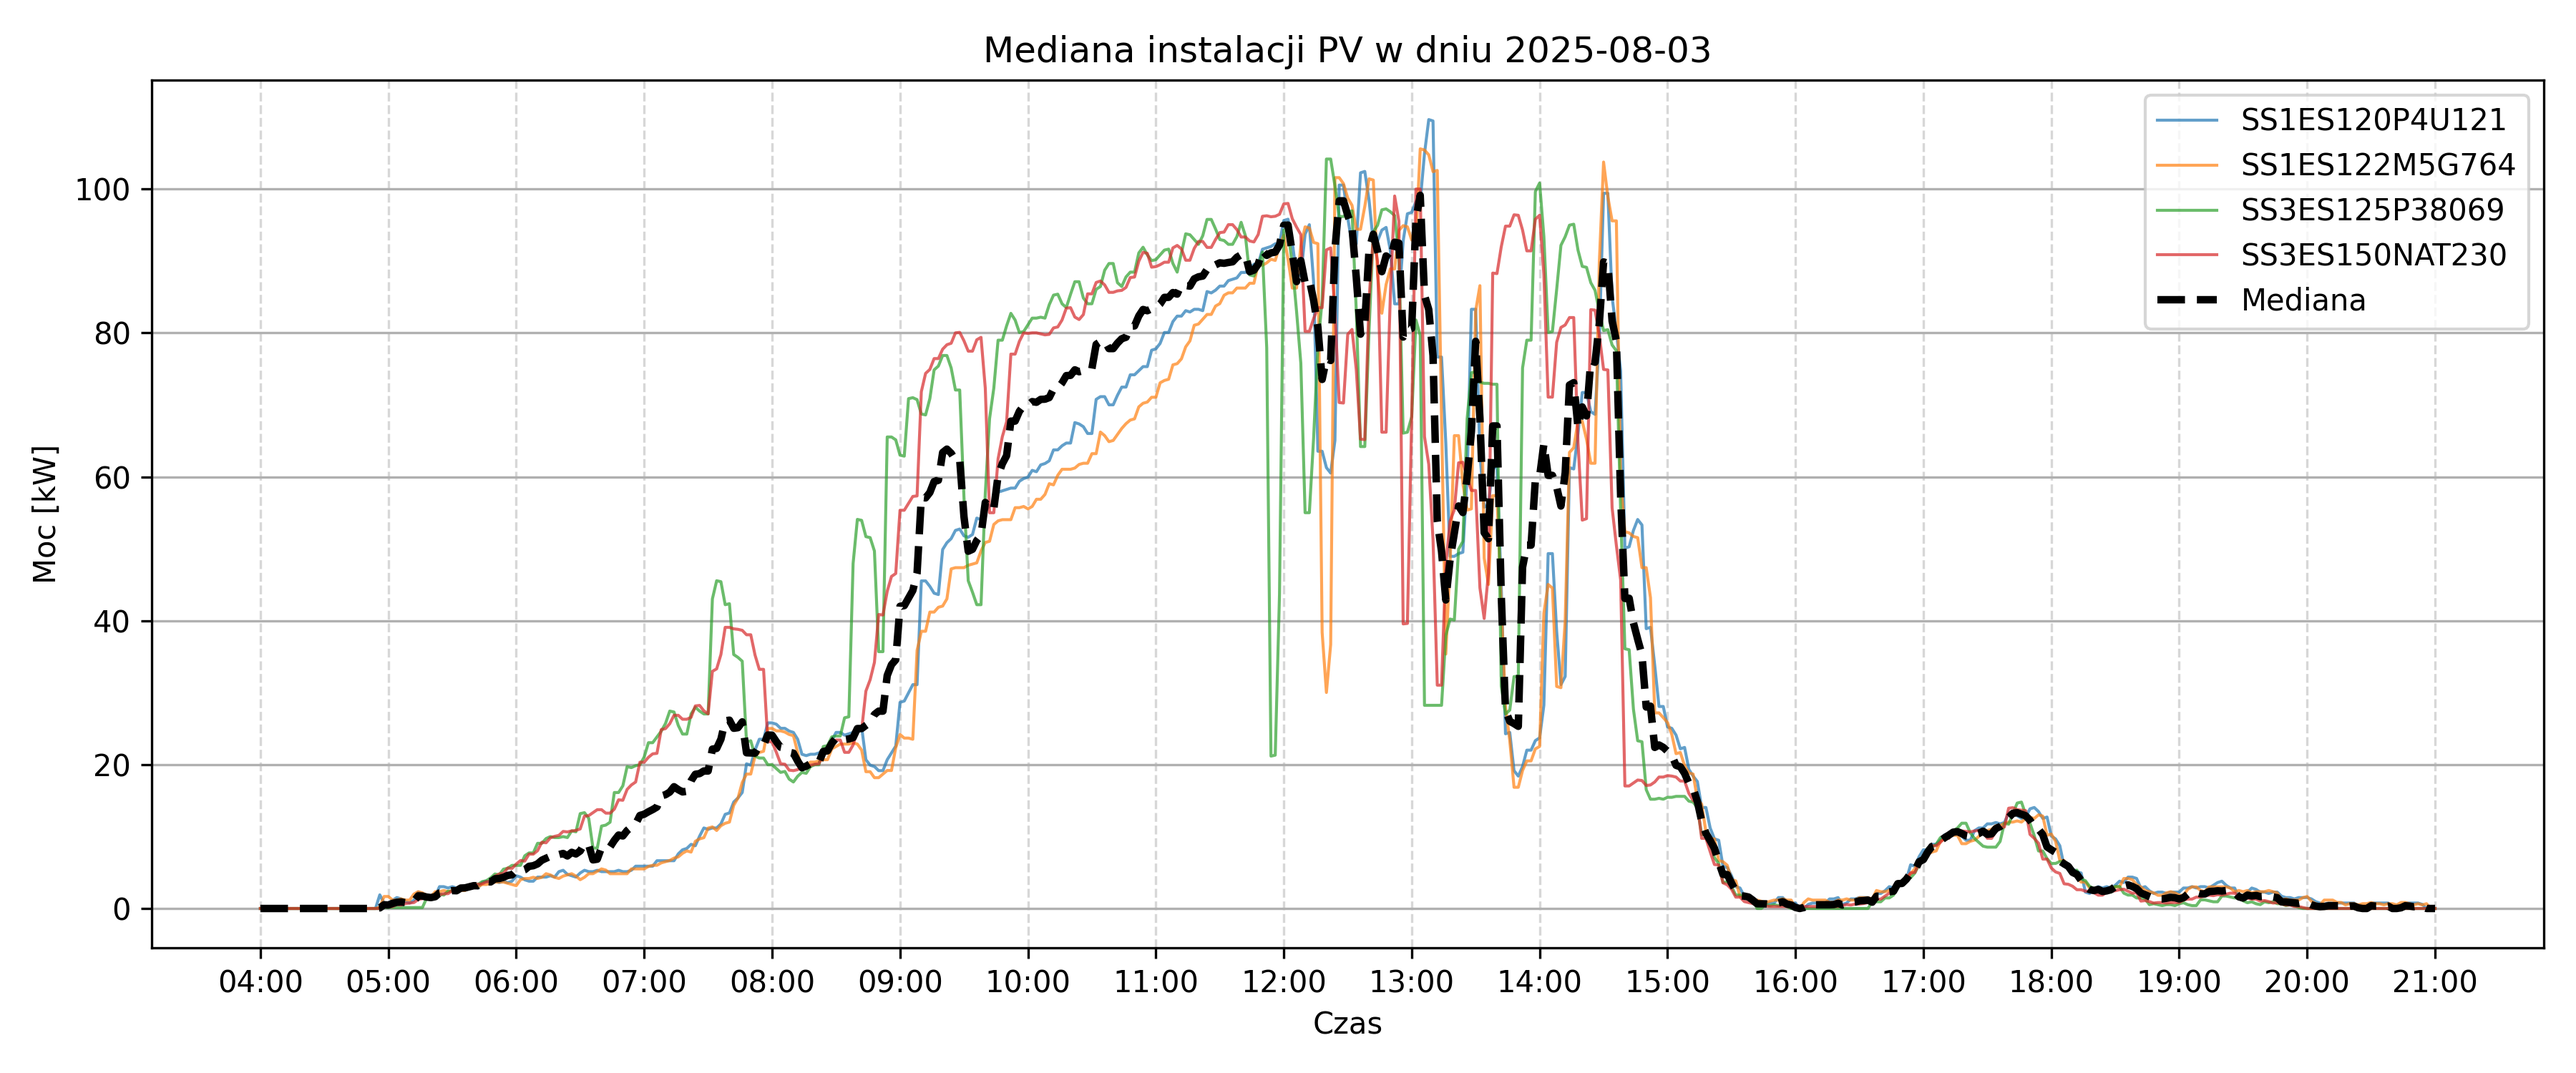
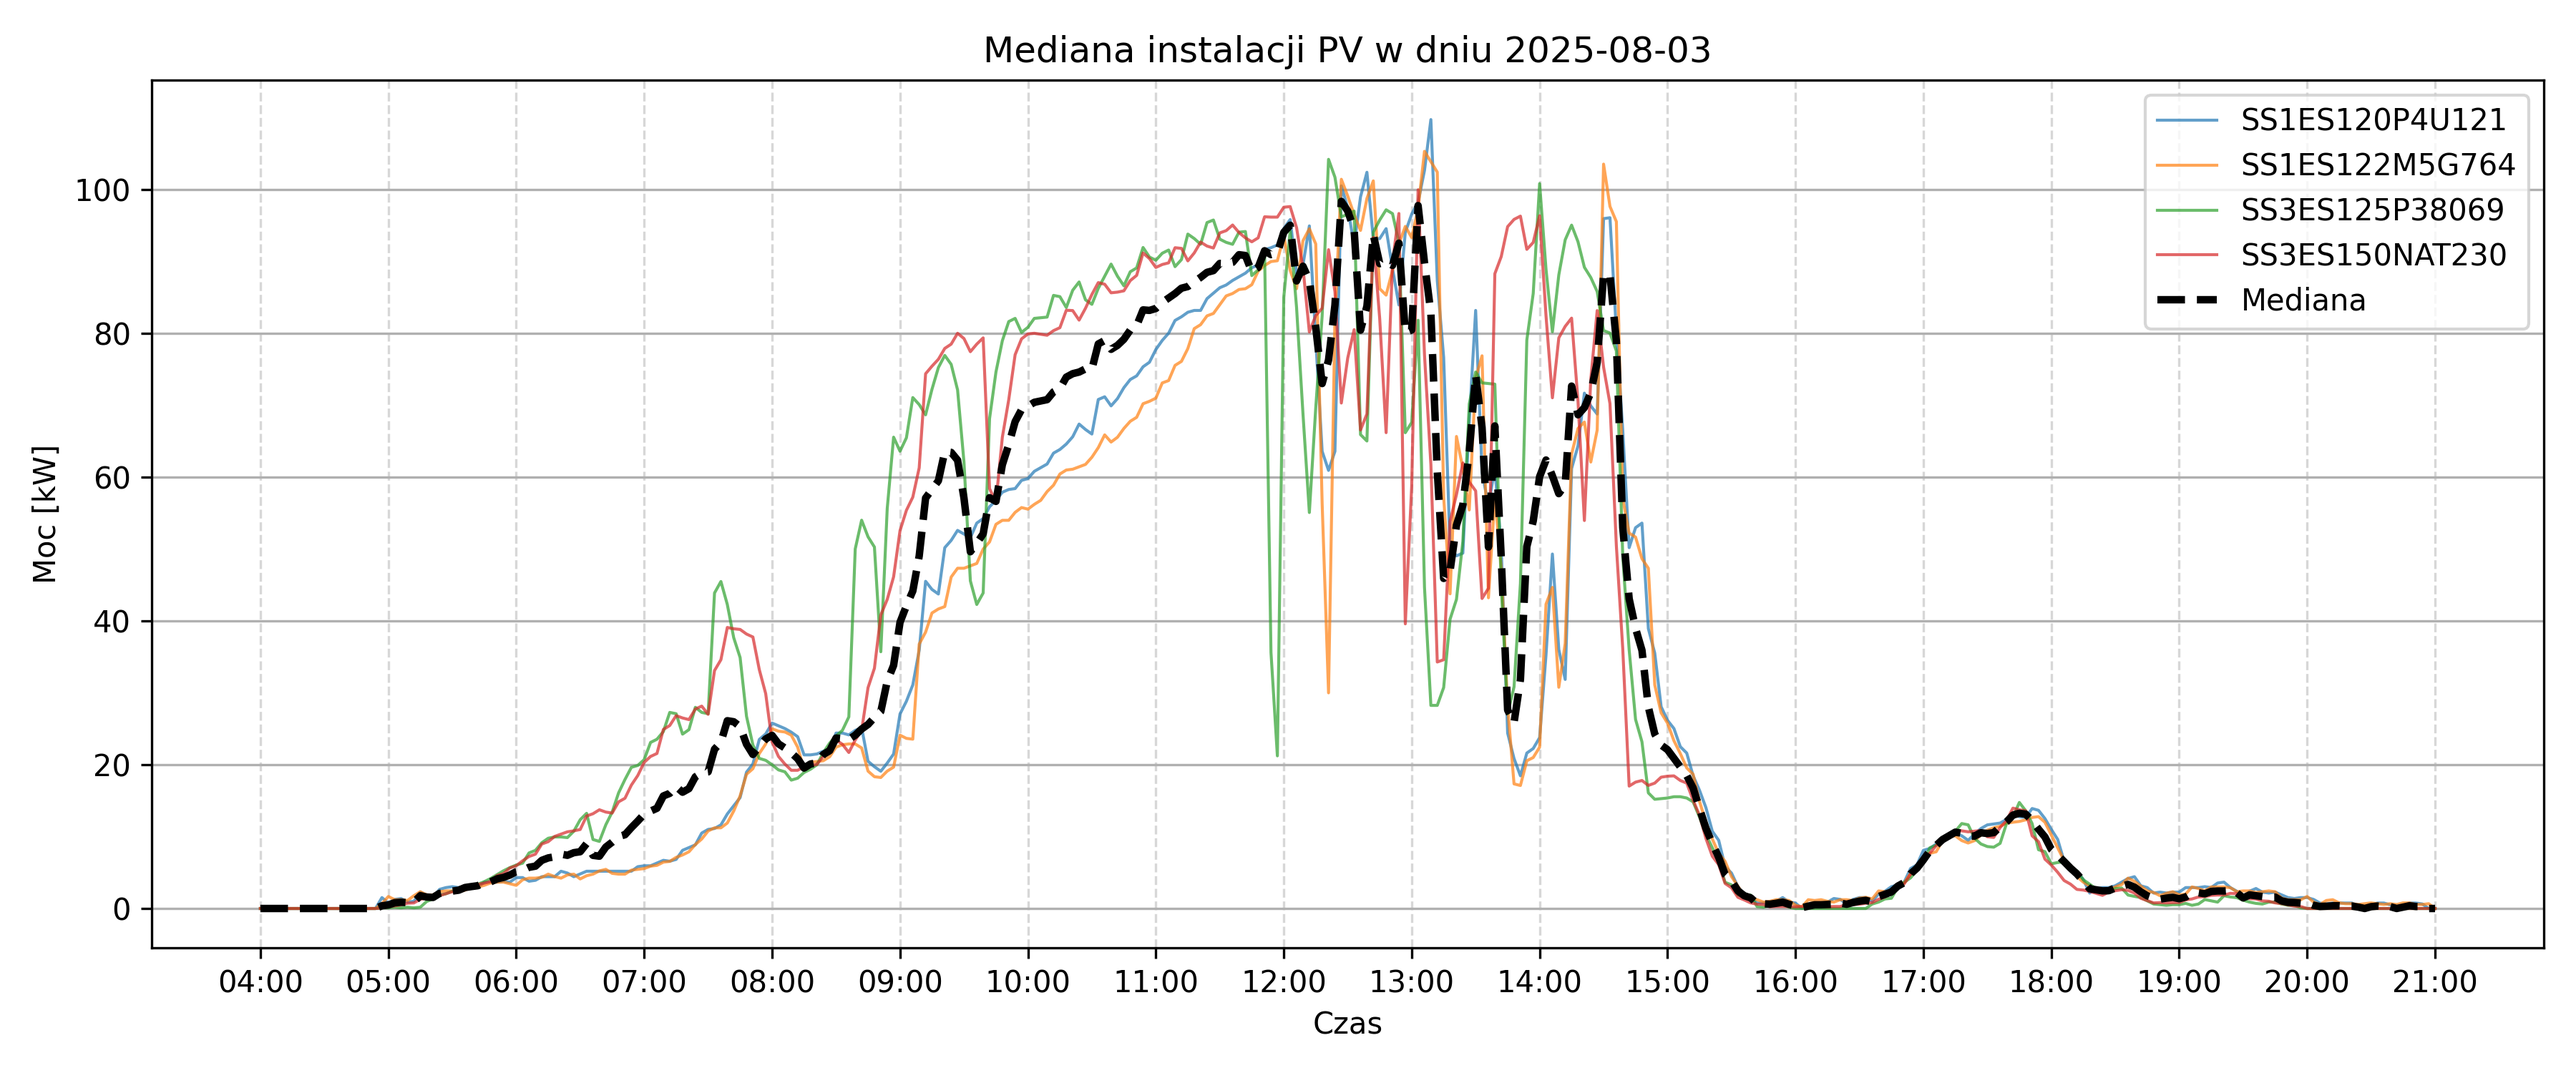
porównanie profilu mocy produkcji z profilem estymowanym wg mediany

diff --git a/A5_analyze/Analizy.py b/A5_analyze/Analizy.py
@@ -4,7 +4,13 @@ import pandas as pd
 from datetime import datetime, timedelta
 import matplotlib.pyplot as plt
 import matplotlib.dates as mdates
+import numpy as np
 import logging
+logging.basicConfig(
+    level=logging.INFO,  # lub DEBUG, WARNING, ERROR, CRITICAL
+    format='%(asctime)s | %(levelname)s | %(message)s',
+    datefmt='%Y-%m-%d %H:%M:%S'
+)
 logger = logging.getLogger(__name__)
 
 def analyze_instalations(engine):
@@ -21,7 +27,7 @@ def load_db_data(engine, date_str: str) -> pd.DataFrame:
     Returns:
         pd.DataFrame z kolumnami [sn, system_time, daily_production_active_kwh_]
     """
-    date_start = datetime.strptime(date_str, "%Y-%m-%d")
+    date_start = datetime.strptime(date_str, "%Y-%m-%d")  # początek dnia
     date_end = date_start + timedelta(days=1)
 
     query = """
@@ -103,14 +109,72 @@ def normalize_kW(resampled,timeprobe:str,coeff)-> pd.DataFrame:    #    Oblicza 
         kW_values.append(norm_kW)
     return kW_values
 
-def interpolate_energy_linear_grid(df: pd.DataFrame,df_coeff,date_str, timeprobe: str ):
-    # df musi zawierać kolumny 'sn', 'system_time', 'daily_production_active_kwh_'
+def get_coeff_for_sn(df_coeff, sn):
+    return df_coeff[df_coeff['sn'] == sn]['coefficient'].values[0] if not df_coeff[df_coeff['sn'] == sn].empty else 1
+def interpolate_at(df, t):
+    #Zwraca liniowo interpolowaną wartość w chwili `t`.
+    #Zakłada df z DateTimeIndex i jedną kolumną.
+    if t in df.index:
+        return df.loc[t].values[0]
+    if t < df.index[0] or t > df.index[-1]:
+        raise ValueError("Czas poza zakresem indeksu")
+    left = df[df.index <= t].iloc[-1]
+    right = df[df.index >= t].iloc[0]
+    t_val = np.interp(
+        t.value,  # ns timestamp
+        [left.name.value, right.name.value],
+        [left.values[0], right.values[0]]
+    )
+    #print (f"Interpolacja dla {t} z {left.name}={left.values[0]} i {right.name}={right.values[0]} daje {t_val}")
+    return t_val
+
+def trapezoidal_integral(df, t1, t2):
+    """
+    Liczy całkę z danych (kW) pomiędzy t1 a t2 metodą trapezów.
+    Automatycznie interpoluje t1 i t2, jeśli nie są w indeksie.
+    Zwraca wartość w kWh.
+    """
+    assert df.index.is_monotonic_increasing and df.index.is_unique, "Index musi być rosnący i unikalny"
+    assert t1 < t2
+    df_sel = df[(df.index >= t1) & (df.index <= t2)].copy()
+    # Interpoluj t1/t2 jeśli nie istnieją w indeksie
+    if t1 not in df_sel.index:
+        df_sel.loc[t1] = interpolate_at(df, t1)
+    if t2 not in df_sel.index:
+        df_sel.loc[t2] = interpolate_at(df, t2)
+    df_sel = df_sel.sort_index()
+    #debug
+    target = pd.Timestamp("2025-07-02 12:54:00")
+    #if abs((t1 - target).total_seconds()) < 30:
+    #    save_df_sel_debug(df_sel) # 4 debug
+
+    values = df_sel.iloc[:, 0].values # zakładamy że dane są w pierwszej kolumnie df_sel
+    times = df_sel.index.astype(np.int64) / 1e9  # sekundy
+    trapz_integral=np.trapz(values, x=times) / 3600  # kWh
+    average_power = trapz_integral / ((t2 - t1).total_seconds() / 3600)  # średnia moc w kW
+
+    return average_power
+
+def save_df_sel_debug(df_sel: pd.DataFrame, filename="debug_integral.xlsx"):
+
+    # Dodaj kolumny pomocnicze: timestamp i timestamp_sec
+    df_debug = df_sel.copy()
+    df_debug["timestamp"] = df_debug.index
+    df_debug["timestamp_sec"] = df_debug.index.astype(np.int64) / 1e9  # sekundy
+
+    # Zapisz do pliku xlsx
+    filename= f"{config.TMP_DIR}/{filename}"
+    df_debug.to_excel(filename, index=False)
+    print(f"Zapisano dane do pliku: {filename}")
+
+def interpolate_energy_linear_grid(df_db_data: pd.DataFrame, df_coeff, date_str, timeprobe: str):
+    # df_db_data musi zawierać kolumny 'sn', 'system_time', 'daily_production_active_kwh_'
     print("\n=================\nInterpolacja energii na siatce czasowej:", timeprobe)
-    df = df.copy()
-    df['system_time'] = pd.to_datetime(df['system_time'])
-    df = df.sort_values(['sn', 'system_time'])
-    start_raw = df['system_time'].min()
-    end_raw = df['system_time'].max()
+    df_db_data = df_db_data.copy()
+    df_db_data['system_time'] = pd.to_datetime(df_db_data['system_time'])
+    df_db_data = df_db_data.sort_values(['sn', 'system_time'])
+    start_raw = df_db_data['system_time'].min()
+    end_raw = df_db_data['system_time'].max()
     start = start_raw.floor('H')  # w dół do pełnej godziny
     end = end_raw.ceil('10min')  # w górę
     # Tworzenie równomiernej siatki co timeprobe
@@ -121,35 +185,96 @@ def interpolate_energy_linear_grid(df: pd.DataFrame,df_coeff,date_str, timeprobe
     df_all_sn_kW=pd.DataFrame(index=full_index)
 
     # Iteracja po grupach sn
-    for sn, group in df.groupby('sn'):
-        # utwórz unormowany całościowy df dla wszystkich instalacji
-        print(f"\nPrzetwarzanie sn: {sn}, liczba punktów: {len(group)}")
+    for sn, group in df_db_data.groupby('sn'):
+        # utwórz unormowany całościowy df_db_data dla wszystkich instalacji
+        logger.info(f"\nPrzetwarzanie sn: {sn}, liczba punktów: {len(group)}")
         # if sn != 'SS3ES125P38069':      continue #  odkomentuj do testów
         # print (group)
         sn_resampled=resample_sn (group, full_index, start_raw, end_raw)
-        coeff= df_coeff[df_coeff['sn'] == sn]['coefficient'].values[0] if not df_coeff[df_coeff['sn'] == sn].empty else 1
-        print(f"SN: {sn}, Coefficient: {coeff}")
+        coeff= get_coeff_for_sn(df_coeff, sn)
+        logger.info(f"SN: {sn}, Coefficient: {coeff}")
         sn_kW = normalize_kW(sn_resampled,timeprobe,coeff)
         #sn_kW=sn_resampled #odkomentuj do testów
         df_resampled = pd.DataFrame({'tick': full_index, 'iterpolated_values': sn_kW})
         df_all_sn_kW[sn]= sn_kW # dodajemy kolumnę z mocą kW dla danego sn
         #plot_interpolation_vs_original(df_resampled, group)
-    '''
-    for sn, group in df.groupby('sn'):
-        # policz medianę kW z ominięciem aktualnego sn:
-        df_bez_sn_kW = df_all_sn_kW.drop(columns=sn)
-        # dodaj kolumnę z medianą kW dla danego sn
-        df_mediana = df_bez_sn_kW.median(axis=1, skipna=True)
 
-        plot_all_with_median(df_mediana, date_str)
-    '''
+    for sn, group in df_db_data.groupby('sn'):
+
+        logger.info(f"Analiza instalacji SN: {sn}")
+        group_sn = df_db_data[df_db_data['sn'] == sn].reset_index(drop=True)
+
+        try:
+            analyze_sn(sn, get_coeff_for_sn(df_coeff, sn), group_sn, df_all_sn_kW, full_index,timeprobe, date_str)
+        except Exception as e:
+            logger.error(f"Błąd podczas analizy instalacji {sn}: {e}")
+
+
 
     df_all_sn_kW['median_kW'] = df_all_sn_kW.median(axis=1, skipna=True)
-    #plot_all_power_series(df_all_sn_kW,date_str)
-    #plot_all_with_median(df_all_sn_kW, date_str, save_path=f"{config.PLOTS_DIR}/median_{date_str}.png")
-    plot_all_with_median(df_all_sn_kW, date_str)
-
+    plot_all_with_median(df_all_sn_kW, date_str, save_path=f"{config.PLOTS_DIR}/median_{date_str}.png")
+    #plot_all_with_median(df_all_sn_kW, date_str)
     return df_all_sn_kW #all
+
+def analyze_sn(sn, coeff, group, df_all_sn_kW,full_index,timeprobe:str, date_str: str) -> None:
+    # sn - identyfikator instalacji
+    # coeff - współczynnik dla instalacji
+    # group - DataFrame z danymi źródłowymi dla tej instalacji    
+    # df_all_sn_kW - DataFrame z mocą unormowaną kW dla wszystkich instalacji
+    # timeprobe - siatka czasowa, np. '1min', '2min'
+    # policz medianę kW z ominięciem aktualnego sn:
+    df_bez_sn_kW = df_all_sn_kW.drop(columns=sn)
+    df_mediana_bez_sn = df_bez_sn_kW.median(axis=1, skipna=True)
+    # przelicz unormowaną medianę na expected_profile w kW mnożąc przez coeff
+    df_expected_profile = pd.DataFrame({
+#        'first_normalized': df_mediana_bez_sn.values,
+        'expected': df_mediana_bez_sn.values * coeff
+    }, index=full_index)
+    #plot_all_power_series(df_expected_profile, sn, date_str) # sam expected power profile
+
+    rows = []
+    for i in range(1, len(group)):
+        prev_row = group.loc[i - 1]
+        curr_row = group.loc[i]
+
+        t_prev = prev_row['system_time']
+        t_curr = curr_row['system_time']
+        delta_t_s = (t_curr - t_prev).total_seconds()
+
+        e_prev = prev_row['daily_production_active_kwh_']
+        e_curr = curr_row['daily_production_active_kwh_']
+        delta_kWh = e_curr - e_prev
+
+        # Pomijamy błędne przypadki
+        if delta_t_s <= 0 or delta_kWh < 0:
+            continue
+
+        power_kW = delta_kWh / (delta_t_s / 3600)
+
+        # Porównanie z profilem oczekiwanym
+        expected_power_kW=trapezoidal_integral(df_expected_profile, t_prev, t_curr)
+        #print (f"t_curr={t_curr}   expected_power_kW= {expected_power_kW:.3f}")
+        # Zapis do listy słowników
+        rows.append({
+#            'sn': curr_row['sn'],
+            'system_time': t_curr,
+#            'delta_t_s': delta_t_s,
+#            'delta_kWh': delta_kWh,
+            'power_kW': power_kW,
+            'expected_power_kW': expected_power_kW,
+            'difference': power_kW-expected_power_kW
+        })
+
+    # Utwórz nowy DataFrame z wyników
+    df_power = pd.DataFrame(rows).set_index('system_time')
+    #print (df_power)
+    plot_all_power_series(df_power, sn, date_str)
+
+
+
+    # zapisz w excel
+    #df_expected_profile.to_excel(f"{config.TMP_DIR}/expected_profile_{sn}_{date_str}.xlsx", index=True)
+    #plot_all_power_series(df_expected_profile,"wszystkich", date_str)
 
 def plot_interpolation_vs_original(result: pd.DataFrame, group: pd.DataFrame) -> None:
     """
@@ -179,17 +304,33 @@ def plot_interpolation_vs_original(result: pd.DataFrame, group: pd.DataFrame) ->
     plt.grid(True)
     plt.tight_layout()
     plt.show()
-def plot_all_power_series(df_all,date_str):
-    # df_all: DataFrame z indeksem czasowym i kolumnami sn1, sn2, ...
+
+def plot_all_power_series(df_all, sn, date_str):
+
+    df_all = df_all.select_dtypes(include=[np.number])
+    df_all = df_all.dropna(how='all')
+    if df_all.empty:
+        print("⚠ Brak danych do wykresu.")
+        return
+
+    # Wykres
     plt.figure(figsize=(12, 5))
-    df_all.plot(ax=plt.gca(), linewidth=2)
+    for col in df_all.columns:
+        plt.plot(df_all.index, df_all[col], label=col, marker = 'o', markersize = 1,linewidth=1)
+
     plt.xlabel("Czas")
     plt.ylabel("Moc [kW]")
-    plt.title("Porównanie wszystkich instalacji PV w dniu "+date_str)
-    plt.grid(True)
+    plt.title("Porównanie instalacji PV "+sn+" w dniu " + date_str)
     plt.legend(title="SN")
-    plt.gca().xaxis.set_major_formatter(mdates.DateFormatter('%H:%M'))
-    plt.tight_layout()
+    plt.grid(True)
+    ax = plt.gca()
+    ax.xaxis.set_major_formatter(mdates.DateFormatter('%H:%M'))
+
+    try:
+        plt.tight_layout()
+    except Exception as e:
+        print("⚠ tight_layout() error:", e)
+
     plt.show()
 def plot_all_with_median(df_all,date_str,save_path=None):
     plt.figure(figsize=(12, 5))
@@ -224,7 +365,7 @@ def analyze_day(engine,df_coeff,date_str):
     print("Dane z bazy danych dla dnia:", date_str)
     print("Liczba wierszy:", len(db_data))
     # print (db_data.head(10))
-    df_interpolated = interpolate_energy_linear_grid(db_data, df_coeff, date_str,timeprobe="5min")
+    df_interpolated = interpolate_energy_linear_grid(db_data, df_coeff, date_str,timeprobe="3min")
     print("Interpolacja energii dla dnia:", date_str)
     print("Liczba wierszy po interpolacji:", len(df_interpolated))
     # print (df_interpolated)
@@ -248,7 +389,9 @@ def main():
     days = pd.date_range(start_time, today)
     reference_cases = ["2025-04-25", "2025-05-14", "2025-05-22", "2025-05-25", "2025-06-05", "2025-07-02", "2025-07-05",
                        "2025-07-06", "2025-07-10", "2025-07-11", "2025-07-14", "2025-07-11"]
-    # days = [datetime.strptime(d, "%Y-%m-%d") for d in reference_cases] # odkomentuj dla testów wybranych dni
+    #reference_cases = ["2025-07-06", "2025-07-02"]
+
+    #days = [datetime.strptime(d, "%Y-%m-%d") for d in reference_cases] # odkomentuj dla testów wybranych dni
     for day in reversed(days):  # od końca
         date_str = day.strftime("%Y-%m-%d")
         analyze_day(engine,df_coeff,date_str)

diff --git a/A3_load/to_mysql.py b/A3_load/to_mysql.py
@@ -198,7 +198,7 @@ def create_import_table(engine, import_table_name):
 
     print(f"✅ Utworzono importową tabelę `{import_table_name}` na podstawie `{main_table_name}`.")
 def safe_insert_dataframe_to_sql(engine, df, import_table_name):
-    #Wstawia dane z df do tabeli import_table_name, tylko dla kolumn istniejących w tabeli SQL.
+    #Wstawia dane z df_db_data do tabeli import_table_name, tylko dla kolumn istniejących w tabeli SQL.
     #Czyści dane zgodnie z typami SQL.
     try:
         # 1. Pobierz kolumny z tabeli
@@ -425,26 +425,27 @@ def process_excel_file(file_path, import_table_name='IMPORT_DATA', debug_table_n
     merge_import_to_main(engine,import_table_name)
     return ("process_excel_file - ended")
 
-
-if __name__  == "__main__":
-    #process_excel_file("/home/astek/Dokumenty/2025.Energetyka/PV-MONITOR/PUK-Bielany/solarmanpv_229763641_SS3ES125P38069_od_2025-07-01_do_2025-07-31.xlsx")
-    #exit(1)
-
-    all_files=list_all_file_paths(config.EXTRACTED_TEMP_DIR, "solarmanpv*.xlsx")
+def main():
+    # Główna funkcja do przetwarzania plików Excel
+    all_files = list_all_file_paths(config.EXTRACTED_TEMP_DIR, "solarmanpv*.xlsx")
     # all_files=list_all_file_paths("/home/astek/Dokumenty/2025.Energetyka/PV-MONITOR/PUK-Bielany/", "sol*.xlsx")
     print(f"Znaleziono {len(all_files)}  plików  w {config.EXTRACTED_TEMP_DIR}sol*.xlsx :")
-    print ("\n".join(all_files))
+    print("\n".join(all_files))
     for file in all_files:
         print(f"Przetwarzanie pliku: {file}")
         process_excel_file(file, import_table_name='IMPORT_DATA', debug_table_name='')
         print("--------------------------------------------------")
+    logger.info("process_excel_file completed for all files.")
 
-#process_excel_file("/home/astek/Dokumenty/2025.Energetyka/PV-MONITOR/PUK-Bielany/solarmanpv_229763641_SS3ES125P38069_od_2025-01-01_do_2025-01-31.xlsx")
-#process_excel_file("/home/astek/Dokumenty/2025.Energetyka/PV-MONITOR/SolarmanSampleSize5.xlsx")
-#process_excel_file("/home/astek/Dokumenty/2025.Energetyka/PV-MONITOR/solarmanpv_230709814_SS3ES150NAT230_short.xlsx")
-#process_excel_file("/home/astek/Dokumenty/2025.Energetyka/PV-MONITOR/SolarmanSample.xlsx")
-#
+if __name__  == "__main__":
+    main()
+
 '''
+process_excel_file("/home/astek/Dokumenty/2025.Energetyka/PV-MONITOR/PUK-Bielany/solarmanpv_229763641_SS3ES125P38069_od_2025-07-01_do_2025-07-31.xlsx")
+process_excel_file("/home/astek/Dokumenty/2025.Energetyka/PV-MONITOR/PUK-Bielany/solarmanpv_229763641_SS3ES125P38069_od_2025-01-01_do_2025-01-31.xlsx")
+process_excel_file("/home/astek/Dokumenty/2025.Energetyka/PV-MONITOR/SolarmanSampleSize5.xlsx")
+process_excel_file("/home/astek/Dokumenty/2025.Energetyka/PV-MONITOR/solarmanpv_230709814_SS3ES150NAT230_short.xlsx")
+process_excel_file("/home/astek/Dokumenty/2025.Energetyka/PV-MONITOR/SolarmanSample.xlsx")
 process_excel_file("/home/astek/Dokumenty/2025.Energetyka/PV-MONITOR/PUK-Bielany/solarmanpv_230709814_SS3ES150NAT230_od_2025-02-01_do_2025-02-28.xlsx")
 process_excel_file("/home/astek/Dokumenty/2025.Energetyka/PV-MONITOR/PUK-Bielany/solarmanpv_229763641_SS3ES125P38069_od_2025-01-01_do_2025-01-31.xlsx")
 process_excel_file("/home/astek/Dokumenty/2025.Energetyka/PV-MONITOR/PUK-Bielany/solarmanpv_229763641_SS3ES125P38069_od_2025-01-01_do_2025-01-31.xlsx")

diff --git a/main.py b/main.py
@@ -1,4 +1,5 @@
 from A1_extract.from_solarman import pull_all_solarman  # Import the function from solarmanpv module
+from A3_load import to_mysql
 import logging
 logging.basicConfig(
     level=logging.INFO,  # lub DEBUG, WARNING, ERROR, CRITICAL
@@ -12,6 +13,7 @@ def main():
     # Główna funkcja do pobierania raportów Solarman
     print("Pobieranie raportów Solarman dla wszystkich urządzeń w 2025 roku...")
     pull_all_solarman()
+    to_mysql.main()
 
 if __name__ == "__main__":
     main()

diff --git a/A1_extract/from_solarman.py b/A1_extract/from_solarman.py
@@ -88,6 +88,7 @@ def pull_all_solarman():
         last_day = f"{Y}-{M:02d}-{last_day_num:02d}"
         print(f"{first_day}  →  {last_day}")
         download_all_solarman_reports(first_day, last_day)
+    logger.info("pull_all_solarman finished")
 
 def pull_last_solarman():
     # Pobieranie ostatnich raportów Solarman dla wszystkich urządzeń od ostaniej aktualizacji
